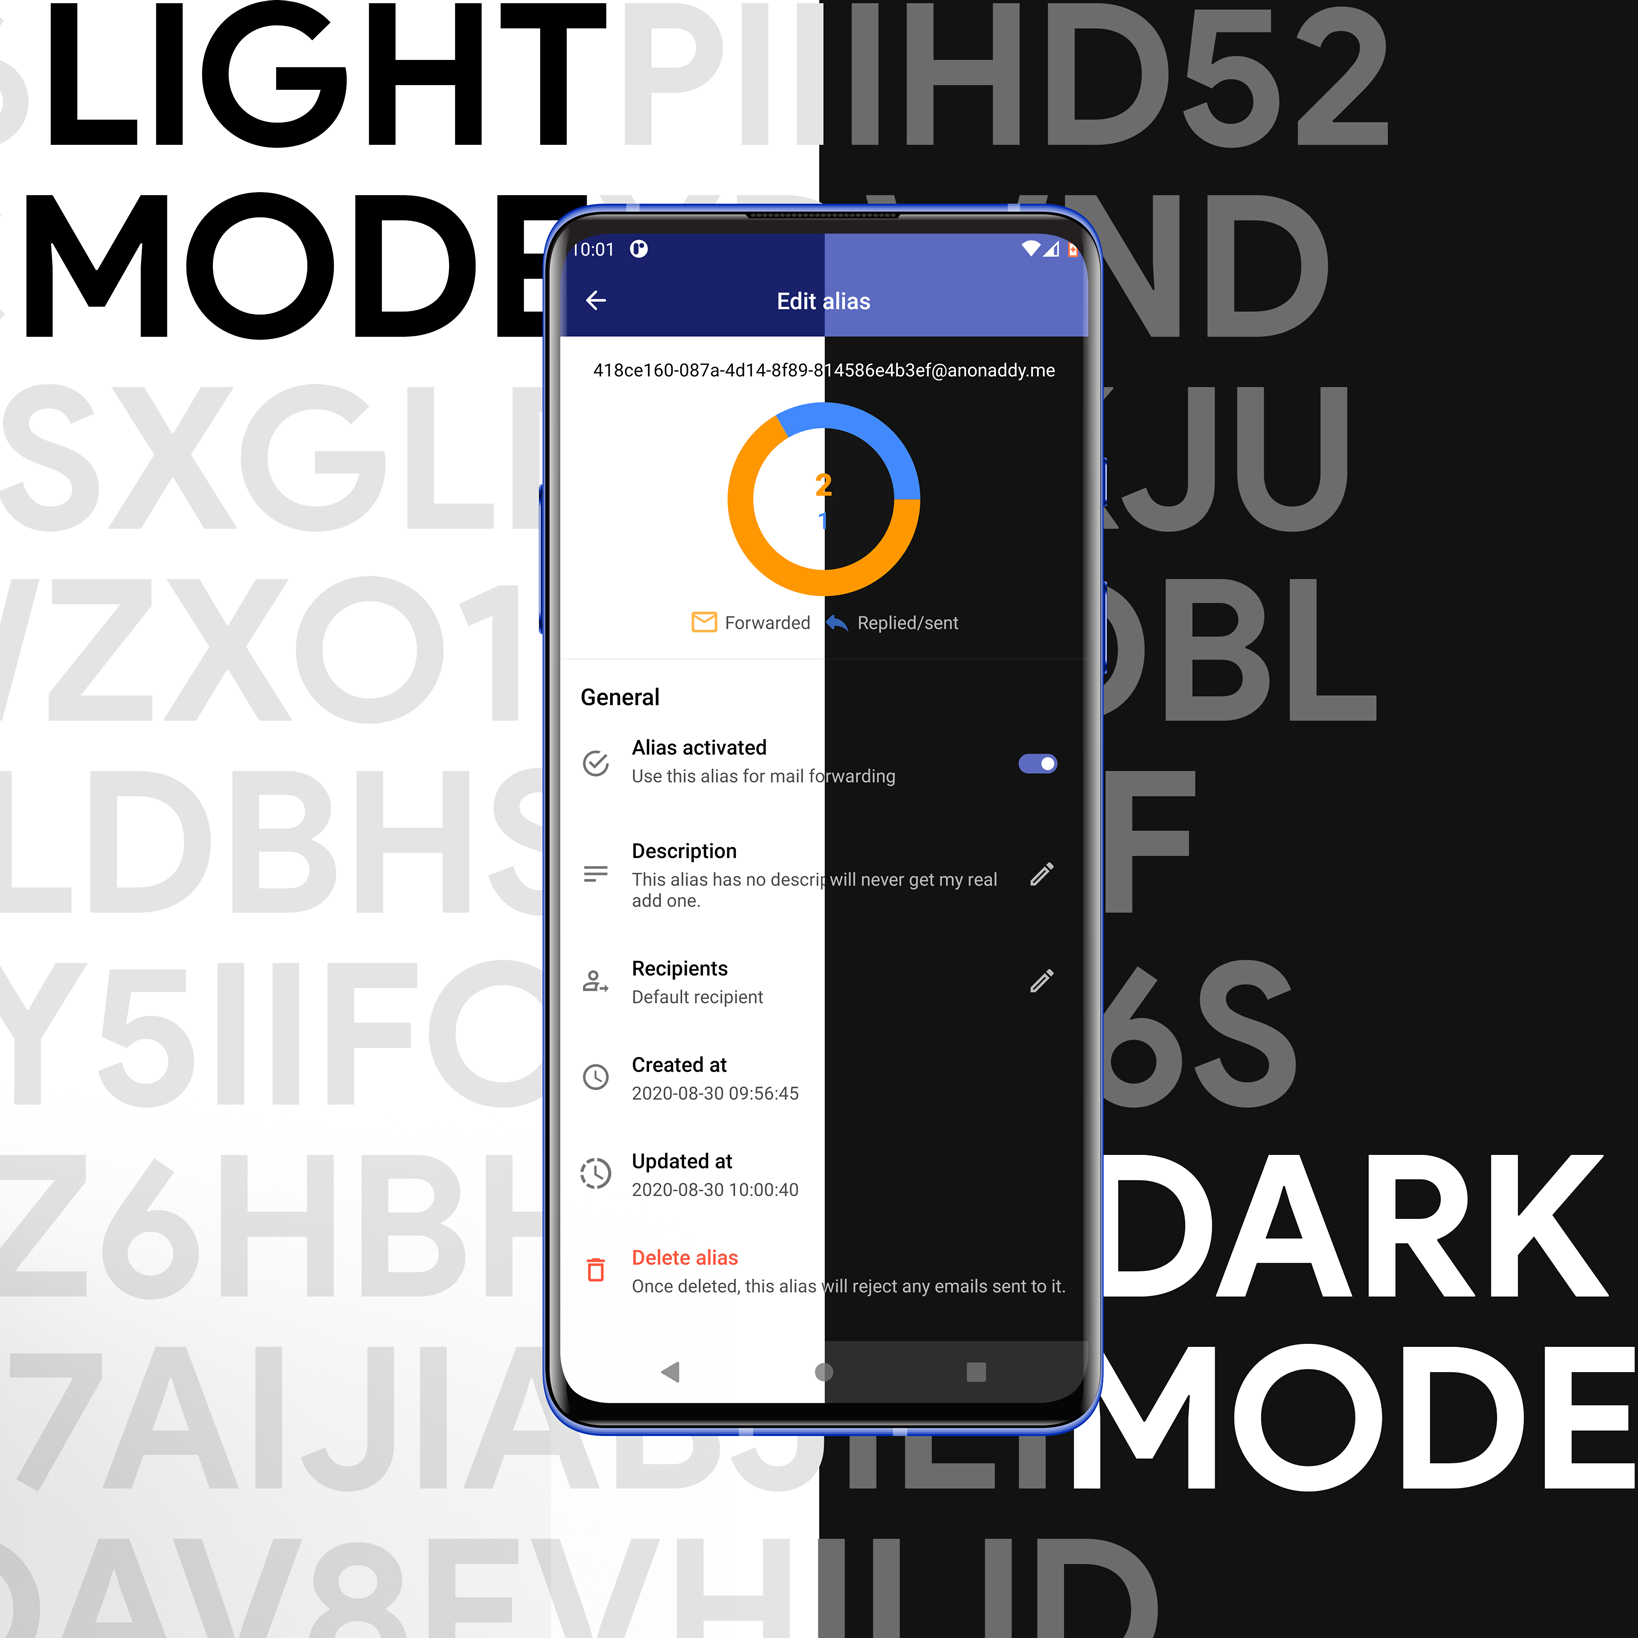
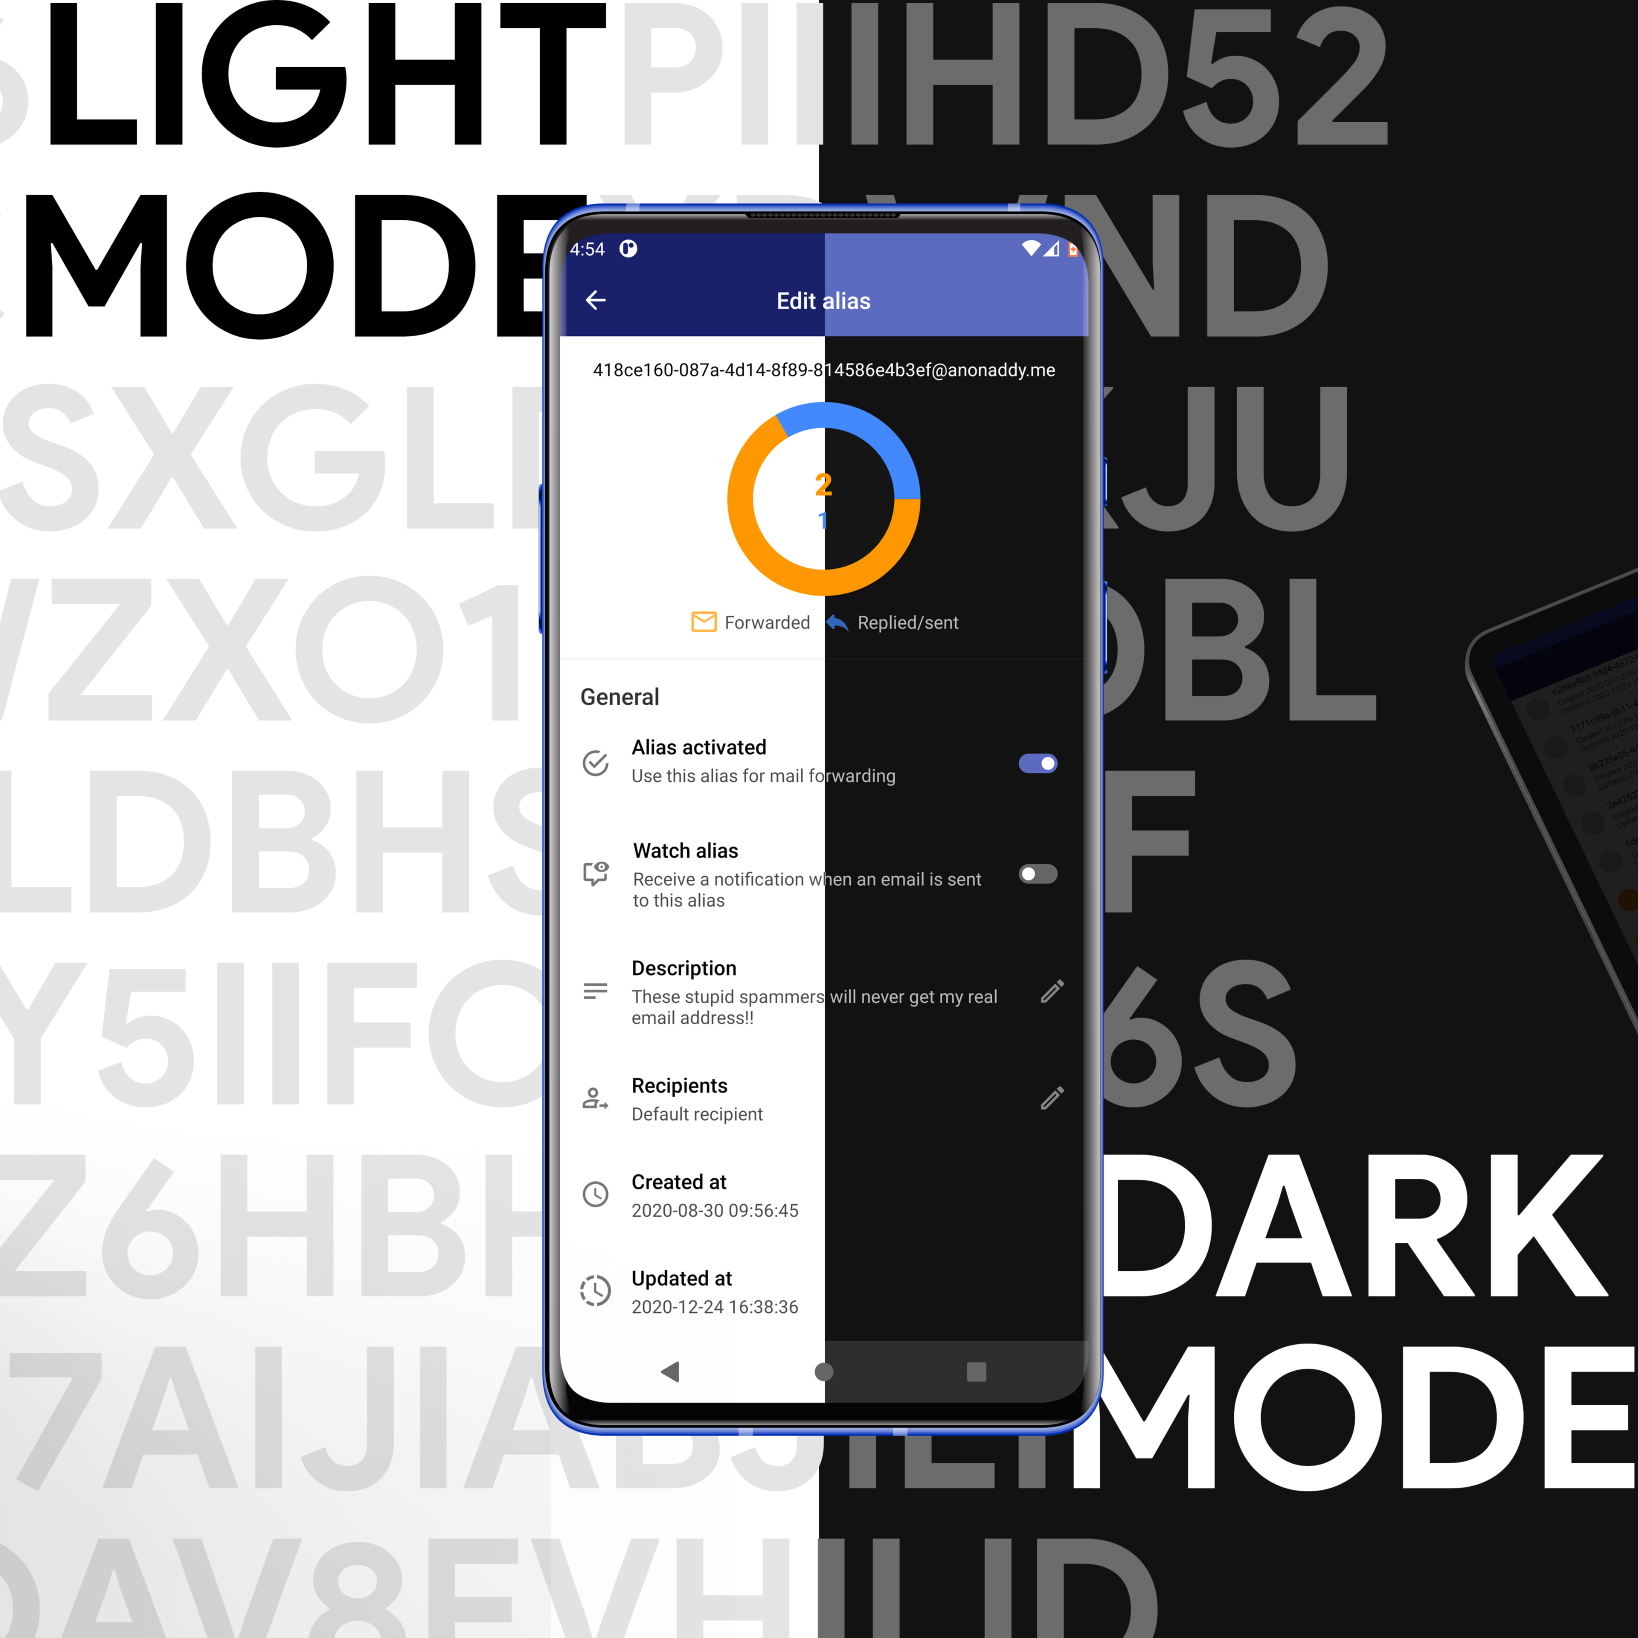
- Updated CHANGELOG - Updated description - Updated images

diff --git a/README.md b/README.md
@@ -1,9 +1,9 @@
+
 <h1 align="center">AnonAddy for Android</h1>
 
 <p align="center">
 Easily create and manage your AnonAddy aliases, recipients and more from your phone or tablet with this <b>sexy</b> AnonAddy app for Android.
-  </br>
-<p align="center">
+ </br><p align="center">
 <img src="static/banner.png"/>
 </p>
 
@@ -31,16 +31,14 @@ Easily create and manage your AnonAddy aliases, recipients and more from your ph
 - A unique, sexy and sleek design, based on the [Material Design](https://material.io/) language
 - Support for Deep Link to easily deactivate aliases from the email banner
 - Lock the app using Biometrics
+- App exclusive features like watching aliases for new emails
 - Enable error logging to *locally* store exceptions for easy troubleshooting
 - Widgets!
 
 > Seriously 👓
 
 - **Security**.
-  - Encrypted preferences, your API key and other AnonAddy related settings are securely stored on your device using the [AndroidX crypto library](https://developer.android.com/jetpack/androidx/releases/security)
-  - No stats, buried points or Device IDs, or even crash reporting (so if you get a crash, please share the crash info with me >_<).
-  - I am forgoing the convenient third-party collection SDK and various stats just so you can use it with confidence.
-  **What's yours is yours**.
+ - Encrypted preferences, your API key and other AnonAddy related settings are securely stored on your device using the [AndroidX crypto library](https://developer.android.com/jetpack/androidx/releases/security) - No stats, buried points or Device IDs, or even crash reporting (so if you get a crash, please share the crash info with me >_<). - I am forgoing the convenient third-party collection SDK and various stats just so you can use it with confidence.  **What's yours is yours**.
 
  > Manage (add, edit, delete)
 
@@ -56,31 +54,31 @@ Developer-led download channels:
 
 >Recommended (access to beta's, automatic updates and support me :) )
 - [Google Play](https://play.google.com/store/apps/details?id=host.stjin.anonaddy)
-  - ⚠Note: this version charges but the code is identical, so if you'd like to buy the author a cup of tea (or if you're more headstrong) then go here and download it, otherwise please choose another source :)
+ - ⚠Note: this version charges but the code is identical, so if you'd like to buy the author a cup of tea (or if you're more headstrong) then go here and download it, otherwise please choose another source :)
 
->Other releases
+>Other sources
 - [Gitlab release](https://gitlab.com/Stjin/anonaddy-android/-/releases)
 - [F-Droid](https://f-droid.org/packages/host.stjin.anonaddy)
 
-All other channels are not developer-driven, so please screen them carefully before downloading and using them.
-
 ## UI
 - Designed by my lovely UI guru @JustPlayingHard (💙)
-  - Anything you think doesn't work well is my bad as I recreated the UI drafts into XML.
+ - Anything you think doesn't work well is my bad as I recreated the UI drafts into XML.
 
 ## Open Source License.
 Third party libraries used.
-- [airbnb/lottie-android](https://github.com/airbnb/lottie-android)
-- [kittinunf/fuel](https://github.com/kittinunf/fuel)
-- [sharish/ShimmerRecyclerView](https://github.com/sharish/ShimmerRecyclerView)
 - [androidx.biometric](https://developer.android.com/jetpack/androidx/releases/biometric)
 - [androidx.security.crypto](https://developer.android.com/jetpack/androidx/releases/security)
+- [androidx.work](https://developer.android.com/jetpack/androidx/releases/work)
+- [airbnb/lottie-android](https://github.com/airbnb/lottie-android)
 - [google/flexbox-layout](https://github.com/google/flexbox-layout)
+- [kittinunf/fuel](https://github.com/kittinunf/fuel)
+- [sharish/ShimmerRecyclerView](https://github.com/sharish/ShimmerRecyclerView)
 - [yuriy-budiyev/code-scanner](https://github.com/yuriy-budiyev/code-scanner)
+
 
 ## Feedback and contribution
 I welcome your comments and suggestions in the issues section, or you can contribute your code by submitting a PR directly to me.
-Of course, you can also contact the developer directly via telegram or email and we'll get back to you shortly.
+Of course, you can also contact the developer directly via telegram or email and I'll get back to you shortly.
 
 ## Donation
 [![Donate](https://img.shields.io/badge/Donate-PayPal-green.svg)](https://www.paypal.com/cgi-bin/webscr?cmd=_s-xclick&hosted_button_id=ZM2VEB23XL8S2)

diff --git a/CHANGELOG.md b/CHANGELOG.md
@@ -1,41 +1,53 @@
+
 # Changelog
+
+## [AnonAddy v1.2.0] - TBD
+
+### Added
+- 📷 [NEW] Setup the AnonAddy app without even having to copy-paste the API key, just scan the QR code shown on the AnonAddy instance and you're good to go!
+- 🌐 [NEW] Get full control over how often background data such as widgets are refreshed
+- 👁 [NEW] [APP EXCLUSIVE] Watch your aliases to get notified when it forwards a new email
+### Fixed/Improved
+- 🖌 [IMPROVED] There are some minor UI improvements making the app look even better
+- 🔐 [IMPROVED] The app just got even more secure as it now also requires authentication for actions being executed from the widget or intents
+- 🧈 [IMPROVED] Lot's of love and butter has gone into this release to make the app smoother and more lightweight than ever before. Especially the widget got a big improvement
+- 🦋 [IMPROVED] Minor bugs have been fixed
+
 
 ## [AnonAddy v1.1.3] - 2020-12-08
 
 ### Fixed/Improved
-- 🐛 [BUG FIX] Deleted alias section is not collapsed by default
-- 🙋 [FEATURE REQUEST] Switch between panels by swiping left/right
+- 🐛 [BUG FIX] Deleted alias section is not collapsed by default- 🙋 [FEATURE REQUEST] Switch between panels by swiping left/right
 
 
 ## [AnonAddy v1.1.2] - 2020-11-21
 
 ### Fixed/Improved
--  🖥 Optimized UI for big screens
--  🐛 [BUG FIX] Improved responsiveness when switching fragments
--  🙋 [FEATURE REQUEST] Added link to gitlab page
--  🙋 [FEATURE REQUEST] Separated deleted aliases into a different section
+- 🖥 Optimized UI for big screens
+- 🐛 [BUG FIX] Improved responsiveness when switching fragments
+- 🙋 [FEATURE REQUEST] Added link to gitlab page
+- 🙋 [FEATURE REQUEST] Separated deleted aliases into a different section
 
 
 ## [AnonAddy v1.1.1] - 2020-10-24
 
 ### Fixed/Improved
 -  Added the forgotten piece of the custom alias format >.<
--  Fixed crash at double Biometrics authentication prompt when dark mode was enabled
+- Fixed crash at double Biometrics authentication prompt when dark mode was enabled
 
 
 ## [AnonAddy v1.1.0] - 2020-10-24
 
 ### Added
--  📋 Added new rule-editor (beta)
-    -  The feature is still in beta, and might not be available on the hosted instance
-    -  For self-hosted instanced, enable the rule feature in order to use this editor
--  🔤 Added catch-all switch for AnonAddy v0.4.0>
--  ⌨ Added custom alias format option
--  💸 Added subscription check for random words alias format
--  💌 Show changelog on update
--  🛠 Added version check (for self hosted instances)
+- 📋 Added new rule-editor (beta)
+ -  The feature is still in beta, and might not be available on the hosted instance -  For self-hosted instanced, enable the rule feature in order to use this editor
+ - 🔤 Added catch-all switch for AnonAddy v0.4.0>
+ - ⌨ Added custom alias format option
+ - 💸 Added subscription check for random words alias format
+ - 💌 Show changelog on update
+ - 🛠 Added version check (for self hosted instances)
 
 
 ### Fixed/Improved
--  🔎 Improved the search function
--  🌟 UI improvements
+- 🔎 Improved the search function
+- 🌟 UI improvements
